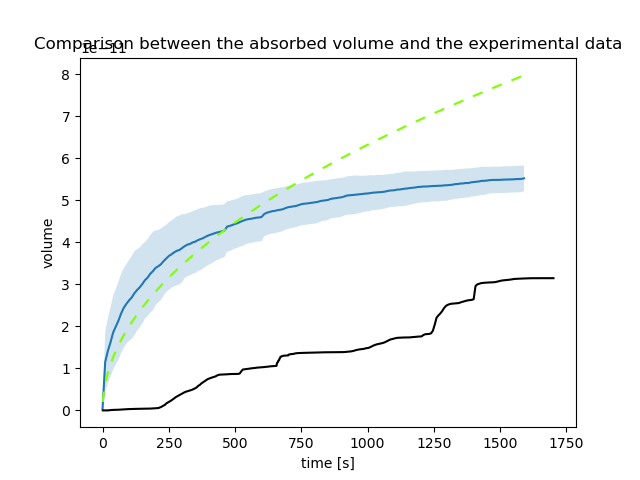
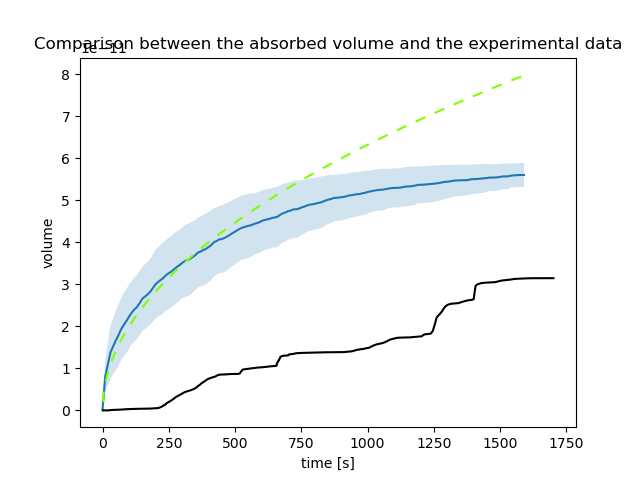
Play with inlets and waiting times, compare the matrices
I've also noticed some interesting behaviour on the 1000 node watts
strogatz graph when restricting the inlets.

Changed region(s): [[0.1562, 0.375, 0.5938, 0.8125], [0.5, 0.3438, 0.8125, 0.4375]]

diff --git a/network_script.py b/network_script.py
@@ -59,6 +59,9 @@ class WickingPNM:
         self.R_full = None # resistances when full
         self.R_inlet = 0 # inlet resistance
 
+        self.randomize_waiting_times = False
+        self.waiting_times_data = None
+
         self.params = {
             # General physical constants (material-dependent)
             'eta': 1, # (mPa*s) dynamic viscosity of water
@@ -83,15 +86,45 @@ class WickingPNM:
 
         re = self.params['re'] = np.random.rand(size)
         h0e = self.params['h0e'] = np.random.rand(size)
-        wt = self.waiting_times = np.random.rand(size)
 
         # re and h0e are on a scale of 1E-6 to 1E-3, waiting times from 1 to 1000
         for i in range(size):
             re[i] /= 10**np.random.randint(3, 6)
             h0e[i] /= 10**np.random.randint(3, 6)
-            wt[i] *= 10**np.random.randint(0, 3)
 
         self.build_inlets()
+        self.generate_waiting_times()
+
+    def adjacency_matrix(self, label_im):
+        def neighbour_search(label, struct=cube):
+            mask = label_im==label
+            mask = sp.ndimage.binary_dilation(input = mask, structure = struct(3))
+            neighbours = np.unique(label_im[mask])[1:]
+
+            # A node can't be its own neighbour
+            neighbours = neighbours[np.where(neighbours != label)]
+
+            return neighbours
+
+        size = len(label_im)
+        labels = np.unique(label_im[1:])
+        matrix = np.zeros([size,size], dtype=np.bool)
+
+        results = Parallel(n_jobs=job_count)(delayed(neighbour_search)(label) for label in labels)
+
+        if verbose:
+            print('\nFilling matrix')
+        for (label, result) in zip(labels, results):
+            if verbose:
+                print('label', label)
+                print('neighbours', result, '\n')
+
+            matrix[label, result] = True
+
+        # make sure that matrix is symmetric (as it should be)
+        matrix = np.maximum(matrix, matrix.transpose())
+
+        return matrix
 
     def from_data(self, exp_data_path, pore_data_path, stats_path):
         stats = WickingPNMStats(stats_path)
@@ -158,7 +191,7 @@ class WickingPNM:
 
                         surface = surfaces[label]
                         indices = np.argwhere(labels == label)
-                        if indices.min() != indices.max():
+                        if indices[0] != indices[-1]:
                             surface.min[i, j] = indices[0]
                             surface.max[i, j] = indices[-1]
 
@@ -235,14 +268,27 @@ class WickingPNM:
         if verbose:
             print('adjacency matrix', matrix)
 
+        matrix2 = self.adjacency_matrix(label_matrix)
+
         # remove diagonal entries (self-loops)
         matrix[np.where(np.diag(np.ones(matrix.shape[0], dtype=np.bool)))] = False
+        matrix2[np.where(np.diag(np.ones(matrix.shape[0], dtype=np.bool)))] = False
 
         # remove irrelevant/noisy labels, pores that are just a few pixels large
         mask = np.ones(matrix.shape[0], np.bool)
         mask[labels] = False
         matrix[mask,:] = False
         matrix[:,mask] = False
+        matrix2[mask,:] = False
+        matrix2[:,mask] = False
+
+        ## TODO: Verify which are right and why they might be wrong
+        print('Matrices are not equal:')
+        where = np.where(matrix != matrix2)
+        for i in range(len(where[0])):
+            node1, node2 = where[0][i], where[1][i]
+            print('Connection {}-{}: matrix1 = {}, matrix2 = {}'
+                  .format(node1, node2, matrix[node1, node2], matrix2[node1, node2]))
 
         # fill networkx graph object
         coo_matrix = sp.sparse.coo_matrix(matrix)
@@ -258,13 +304,28 @@ class WickingPNM:
         self.params['h0e'] = px*pore['value_properties'].sel(property = 'major_axis').data
 
         # define waiting times
-        self.waiting_times = stats.delta_t_025
+        self.waiting_times_data = stats.delta_t_all
+        self.generate_waiting_times()
         self.build_inlets()
 
-    def build_inlets(self):
+    def generate_waiting_times(self):
+        size = np.array(self.graph.nodes).max() + 1
+        data = self.waiting_times_data
+
+        if data is not None and len(data) > 0:
+        # assign a random waiting time to every pore based on the experimental distribution
+            ecdf = ECDF(data)
+            func = interp1d(ecdf.y[1:], ecdf.x[1:], fill_value = 'extrapolate')
+            self.waiting_times = func(np.random.rand(size))
+        else:
+            wt = self.waiting_times = np.random.rand(size)
+            for i in range(graph_size):
+                wt[i] *= 10**np.random.randint(0, 3)
+
+    def build_inlets(self, amount = 5):
         inlets = np.array(pnm.inlets, dtype = np.int)
         if not np.any(inlets):
-            self.generate_inlets()
+            self.generate_inlets(amount)
         else:
             # double-check if inlet pores are actually in the network
             temp_inlets = deque()
@@ -274,10 +335,10 @@ class WickingPNM:
                     temp_inlets.append(inlet)
             pnm.inlets = np.array(temp_inlets)
 
-    def generate_inlets(self):
-        ninlets = max(int(0.1*len(self.graph.nodes)),6)
-        print('Generating {} inlets'.format(ninlets))
-        pnm.inlets = np.unique(np.random.choice(self.graph.nodes, ninlets))
+    # TODO: Change this to start with one random inlet and some amount of distant neighbours
+    def generate_inlets(self, amount):
+        print('Generating {} inlets'.format(amount))
+        pnm.inlets = np.unique(np.random.choice(self.graph.nodes, amount))
 
     """
     find your path through the filled network to calculate the inlet
@@ -300,7 +361,7 @@ class WickingPNM:
 
         return self.outlet_resistances_r(filled_inlets)
 
-    # this function recursively should calculate the effective inlet resistance
+    # this function recursivelself.waiting_times ould calculate the effective inlet resistance
     # for every pore with the same distance (layer) to the network inlet
     def outlet_resistances_r(self, layer, visited = {}):
         if len(layer) == 0:
@@ -362,13 +423,9 @@ def simulation(pnm):
     node_ids.sort()
     node_ids = np.array(node_ids)
 
-    # asign a random waiting time to every pore based on the experimental distribution
-    if np.any(pnm.waiting_times):       
-        ecdf = ECDF(pnm.waiting_times)
-        f = interp1d(ecdf.y[1:], ecdf.x[1:], fill_value = 'extrapolate')
-        prob = np.random.rand(n_init)
-        t_w = f(prob)
-    #t_w = t_w*0
+    # Generate_waiting_times will build new waiting times with the ECDF distribution
+    if pnm.randomize_waiting_times:
+        pnm.generate_waiting_times()
 
     # create new pore property arrays where the pore label corresponds to the array index
     # this copuld be solved more elegantly with xarray, but the intention was that it works
@@ -408,6 +465,7 @@ def simulation(pnm):
     step = 0
     time = np.zeros(np.int(np.ceil(tmax/dt)))
     V = pnm.V = np.zeros(len(time))
+    t_w = pnm.waiting_times
     while t <= tmax:
         # first check, which pores are currently getting filled (active)
         if len(newly_active) != 0:
@@ -460,24 +518,28 @@ def plot(pnm, results):
     line_alpha = 1 if len(results) < 10 else 0.5
     sqrt_col = 'chartreuse'
 
-    def plot_simulation_logarithmic():
+    def plot_simulation_logarithmic(plot_sqrt = False):
+        alpha = 0.4 if plot_sqrt else 1
         plt.figure()
         for result in results:
-            plt.loglog(result[0], result[1], alpha = 0.4)
+            plt.loglog(result[0], result[1], alpha = alpha)
 
-        plt.loglog(xsqrt, ysqrt, dashes = (5, 5), color = sqrt_col, alpha = 1)
+        if plot_sqrt:
+            plt.loglog(xsqrt, ysqrt, dashes = (5, 5), color = sqrt_col, alpha = 1)
 
         plt.title('Absorbed volume for each run (logarithmic)')
         plt.xlabel('time [s]')
         plt.ylabel('volume [m3]')
         plt.xlim(0.1,pnm.params['tmax'])
 
-    def plot_simulation():
+    def plot_simulation(plot_sqrt = False):
+        alpha = 0.4 if plot_sqrt else 1
         plt.figure()
         for result in results:
-            plt.plot(result[0], result[1], alpha = 0.4)
+            plt.plot(result[0], result[1], alpha = alpha)
 
-        plt.plot(xsqrt, ysqrt, dashes = (5, 5), color = sqrt_col, alpha = 1)
+        if plot_sqrt:
+            plt.plot(xsqrt, ysqrt, dashes = (5, 5), color = sqrt_col, alpha = 1)
         plt.title('Absorbed volume for each run')
         plt.xlabel('time [s]')
         plt.ylabel('volume [m3]')
@@ -495,7 +557,7 @@ def plot(pnm, results):
         plt.ylabel('flux [m3/s]')
         plt.ylim(0, Qmax)
 
-    def plot_comparison():
+    def plot_comparison(plot_sqrt = False):
         # compare to experimental data
         plt.figure()
         vxm3 = pnm.params['px']**3
@@ -503,28 +565,28 @@ def plot(pnm, results):
         std = test[:,1,:].std(axis=0)
         mean = test[:,1,:].mean(axis=0)
         time_line = test[0,0,:]
+        alpha = 0.2 if plot_sqrt else 1
 
         # Configure the axes
         time_coarse = time_line[::1000]
         mean_coarse = mean[::1000]
         std_coarse = std[::1000]
 
-        xhalf = np.array(range(1, 1000))
-        yhalf = 1E-7*np.sqrt(xhalf)
-
         # Configure the plot
         plt.plot(time_coarse, mean_coarse)
-        plt.plot(xsqrt, ysqrt, dashes = (5, 5), color = sqrt_col, alpha = 1)
-        plt.fill_between(time_coarse, mean_coarse-std_coarse, mean_coarse+std_coarse, alpha=0.2)
+        plt.fill_between(time_coarse, mean_coarse-std_coarse, mean_coarse+std_coarse, alpha = alpha)
+
+        if plot_sqrt:
+            plt.plot(xsqrt, ysqrt, dashes = (5, 5), color = sqrt_col, alpha = 1)
 
         if pnm.data:
             (pnm.data['volume'].sum(axis = 0)*vxm3).plot(color='k')
 
         plt.title('Comparison between the absorbed volume and the experimental data')
 
-    plot_simulation()
-    plot_simulation_logarithmic()
-    plot_comparison()
+    plot_comparison(True)
+    plot_simulation(True)
+    plot_simulation_logarithmic(True)
     plt.show()
 
 if __name__ == '__main__':
@@ -592,6 +654,7 @@ if __name__ == '__main__':
     else:
         njobs = min(I, job_count)
         print('Starting the simulation with a timestep of {}s for {} times with {} jobs.'.format(args.time_step, I, njobs))
+        pnm.randomize_waiting_times = True
         results = Parallel(n_jobs=njobs)(delayed(simulation)(pnm) for i in range(I))
 
     if not args.no_plot:
